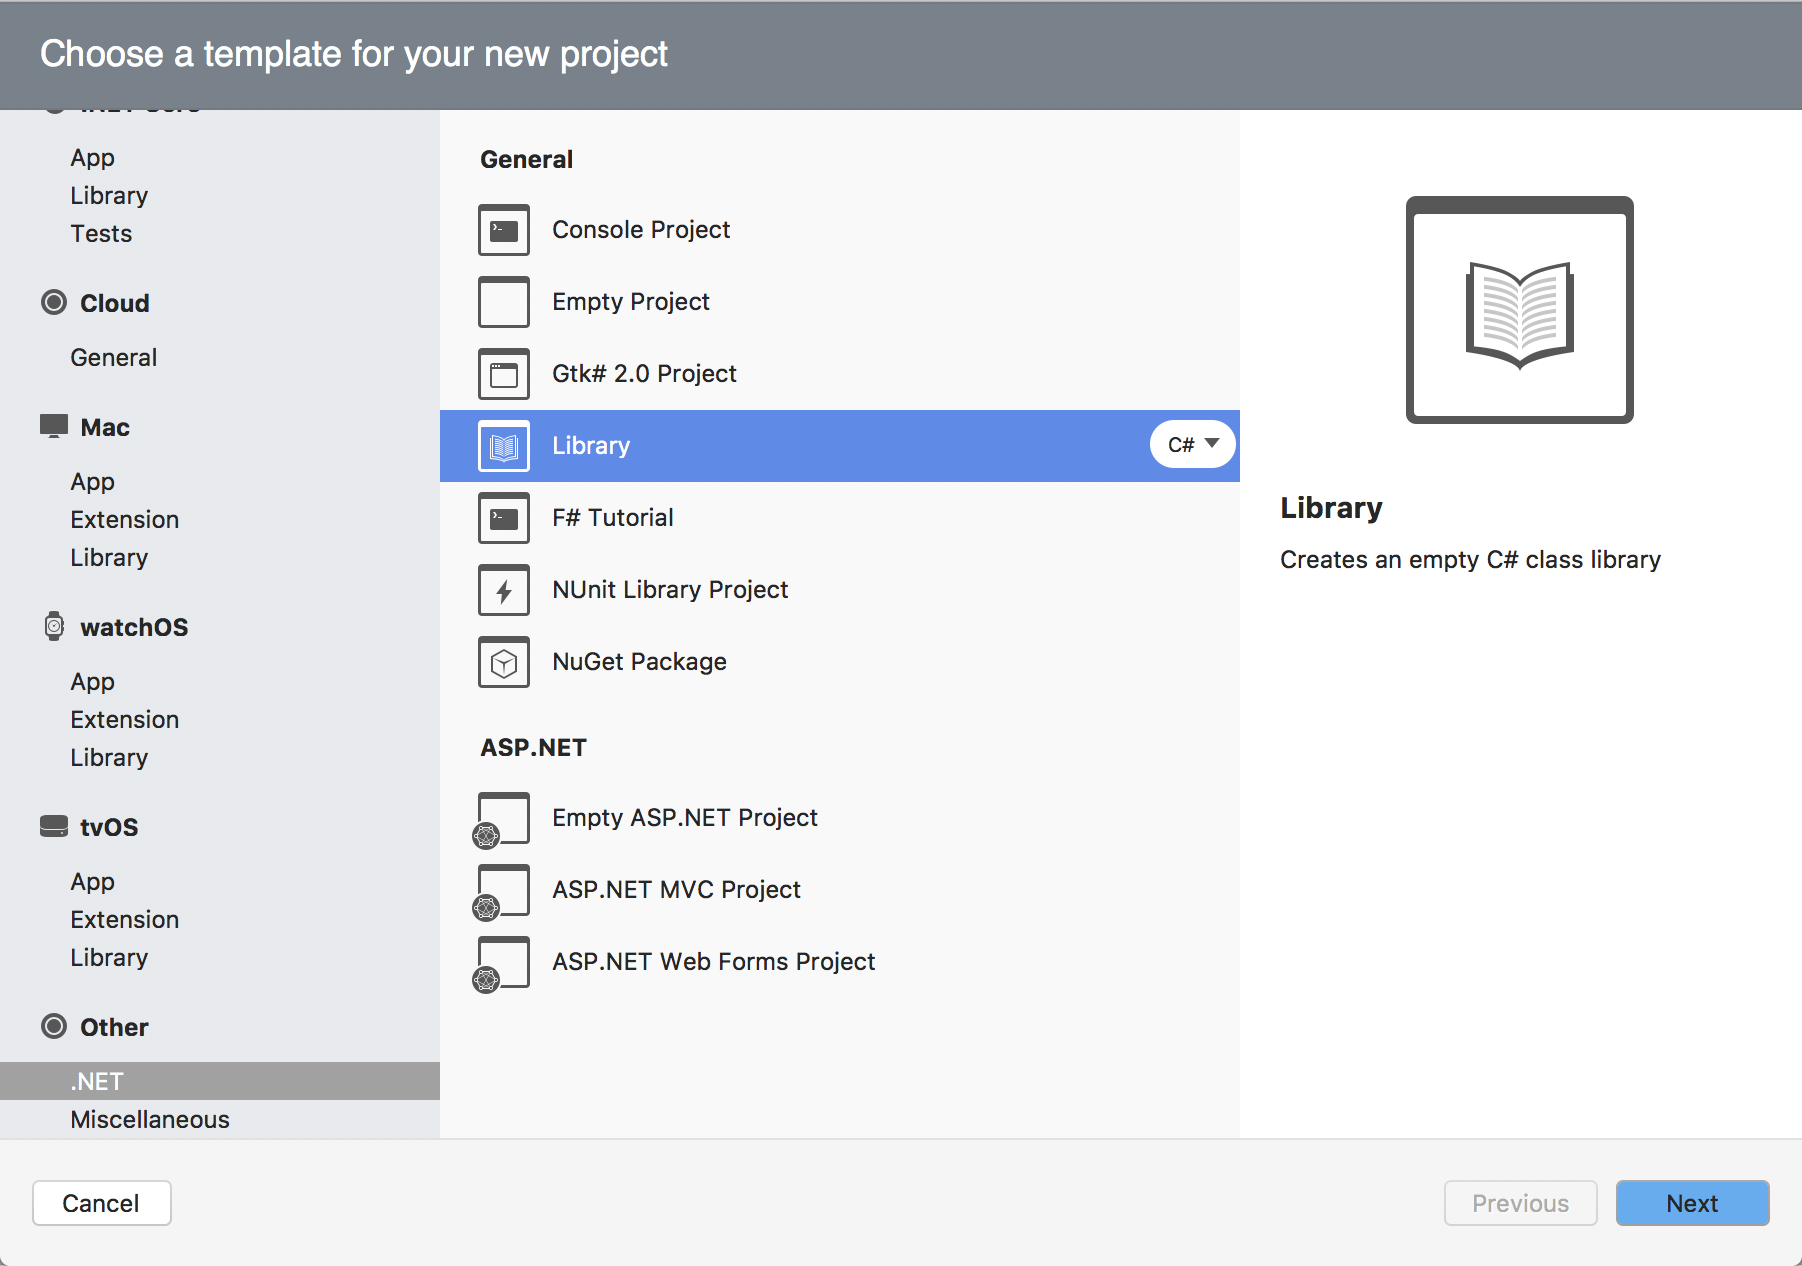
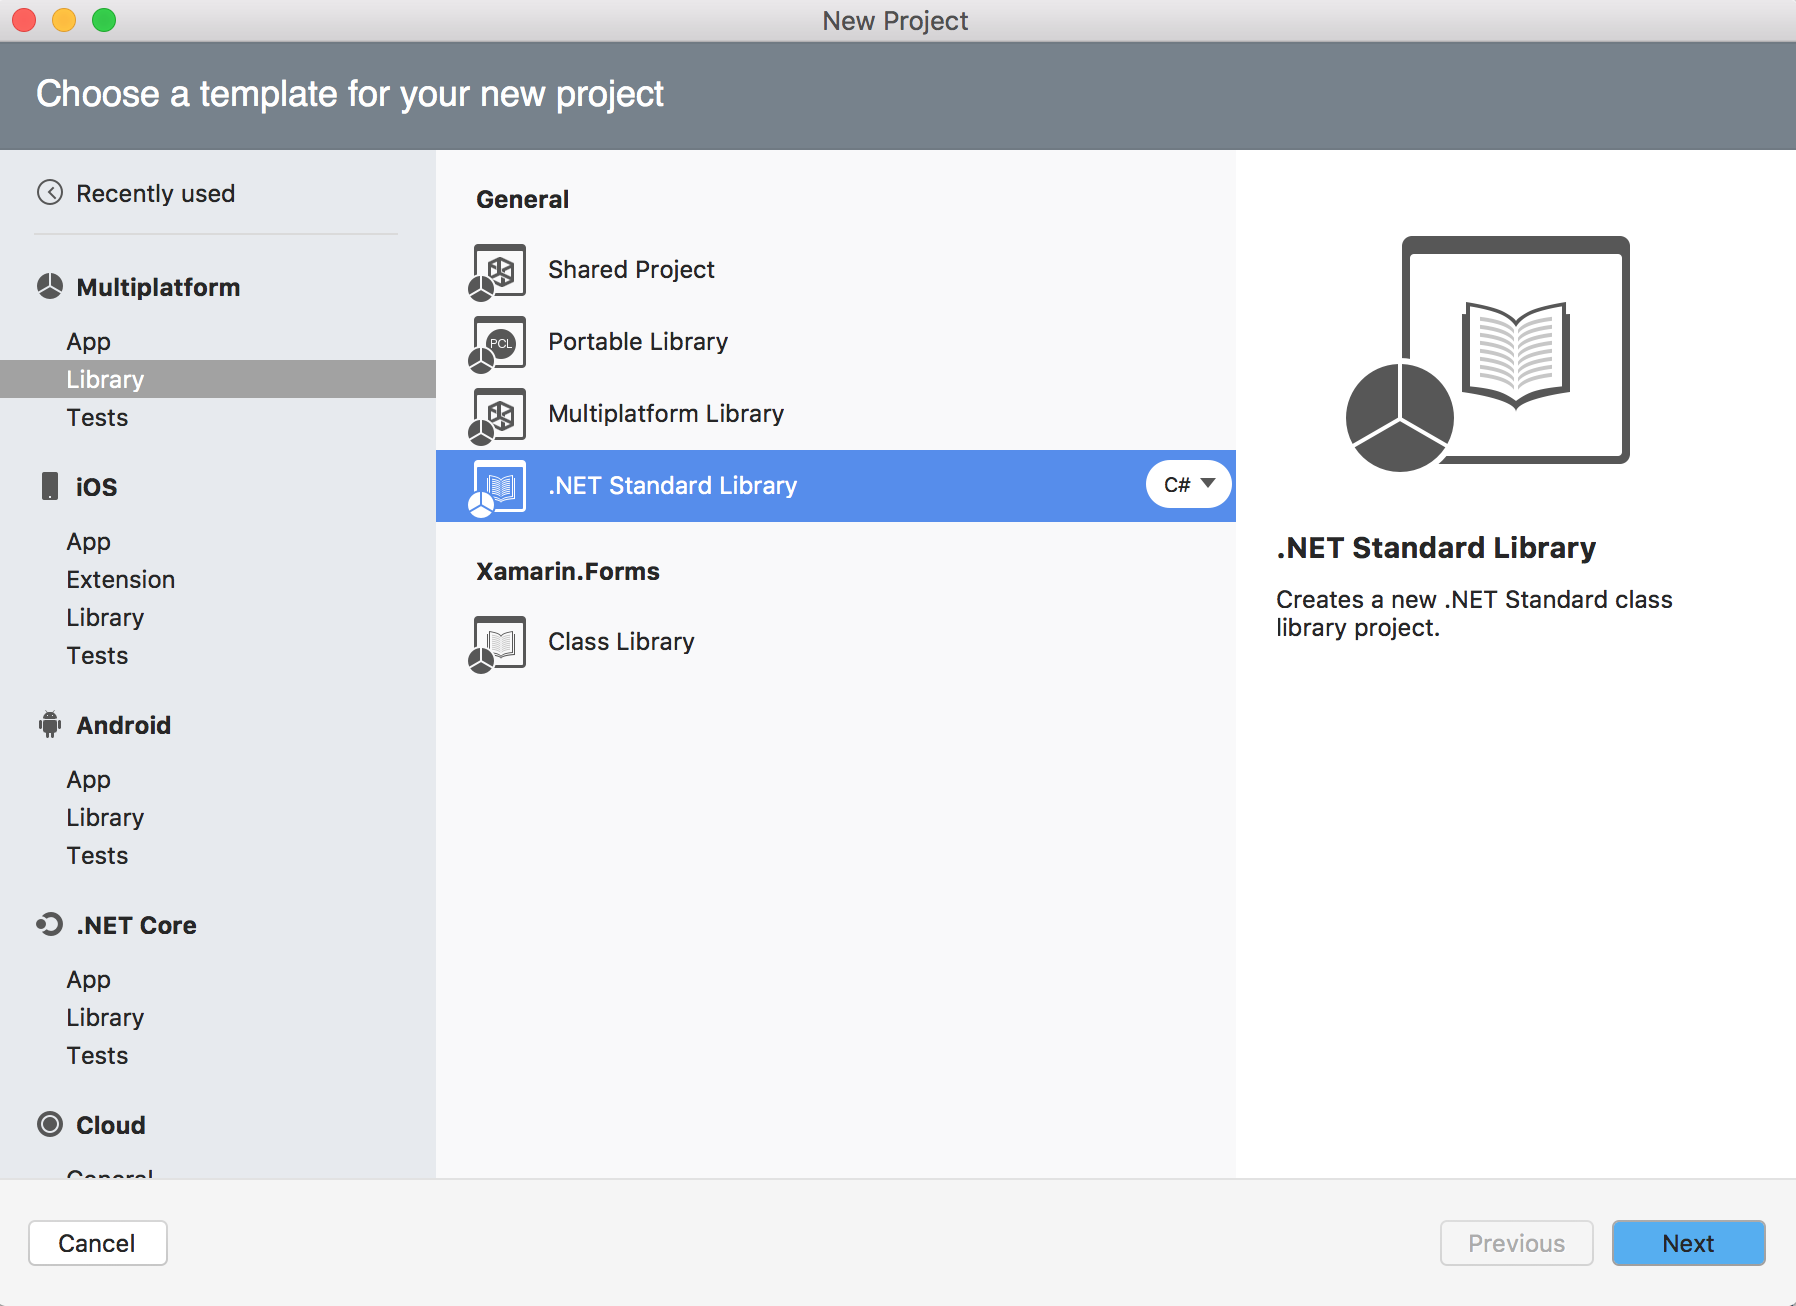
Updating docs

diff --git a/DocFX/articles/adaptive-surveys.md b/DocFX/articles/adaptive-surveys.md
@@ -4,11 +4,11 @@ uid: adaptive_surveys
 
 # Adaptive Surveys
 A primary use case for Sensus is the deployment of surveys according to schedules or in response
-to data coming off <xref:Sensus.Probes.Probe>s. This is acheived through the use of the 
-<xref:Sensus.Probes.User.Scripts.ScriptProbe>. The deployment of such surveys through Android and iOS devices
-is an active area of research. When should a survey be deployed? How should it be configured to
-attract the user's attention? Answers to these questions depend on the goal of the survey and
-the personal characteristics of each user.
+to data coming off [Probes](xref:Sensus.Probes.Probe). This is acheived through the use of the 
+<xref:Sensus.Probes.User.Scripts.ScriptProbe>. The deployment of such surveys through Android and 
+iOS devices is an active area of research. When should a survey be deployed? How should it be 
+configured to attract the user's attention? Answers to these questions depend on the goal of the 
+survey and the personal characteristics and contexts of each user.
 
 ## Survey Agent Plug-Ins
 Sensus supports a plug-in architecture for modules (or agents) that control the delivery of surveys.
@@ -22,17 +22,17 @@ this hypothesis.
 ## Implementing and Deploying a Survey Agent Plug-In
 Follow the steps below to implement and deploy a survey agent within your Sensus study.
 
-1. Create a new Class Library project in Visual Studio. In Visual Studio for Mac, the following image
+1. Create a new .NET Standard Library project in Visual Studio. In Visual Studio for Mac, the following image
 shows the correct selection:
 
 ![image](/sensus/images/survey-agent-project.png)
 
-1. Add a NuGet reference to [the Sensus package](https://www.nuget.org/packages/Sensus/1.0.0).
+1. Add a NuGet reference to [the Sensus package](https://www.nuget.org/packages/Sensus).
 
-1. Add a new class to the project that inherits from the `ScriptRunnerAgent` class. Implement all
-abstract methods. You can read more about these methods [here]().
+1. Add a new class that implements the `IScriptProbeAgent` interface. Implement all
+abstract methods.
 
-1. Build the class library project, and upload the resulting .dll to a web-accessible URL. A convenient
+1. Build the library project, and upload the resulting .dll to a web-accessible URL. A convenient
 solution is to upload the .dll to a Dropbox directory and copy the sharing URL for the .dll file.
 
 1. Generate a QR code that points to your .dll (e.g., using [QR Code Generator](https://www.qr-code-generator.com/)).
@@ -40,8 +40,8 @@ The content of the QR code must be exactly as shown below:
 
     survey-agent:URL
     
-where URL is the web-accessible URL that points to your .dll file. If you are using Dropbox, the URL 
+where URL is the web-accessible URL that points to your .dll file. If you are using Dropbox, then the URL 
 will be similar to the one shown below (note the `dl=1` ending):
 
-    https://www.dropbox.com/s/nxaatmzuufb5qbk/ExampleSurveyAgent.dll?dl=1
+    https://www.dropbox.com/s/nxaatmzuufb5qbk/ExampleScriptProbeAgent.dll?dl=1
     
